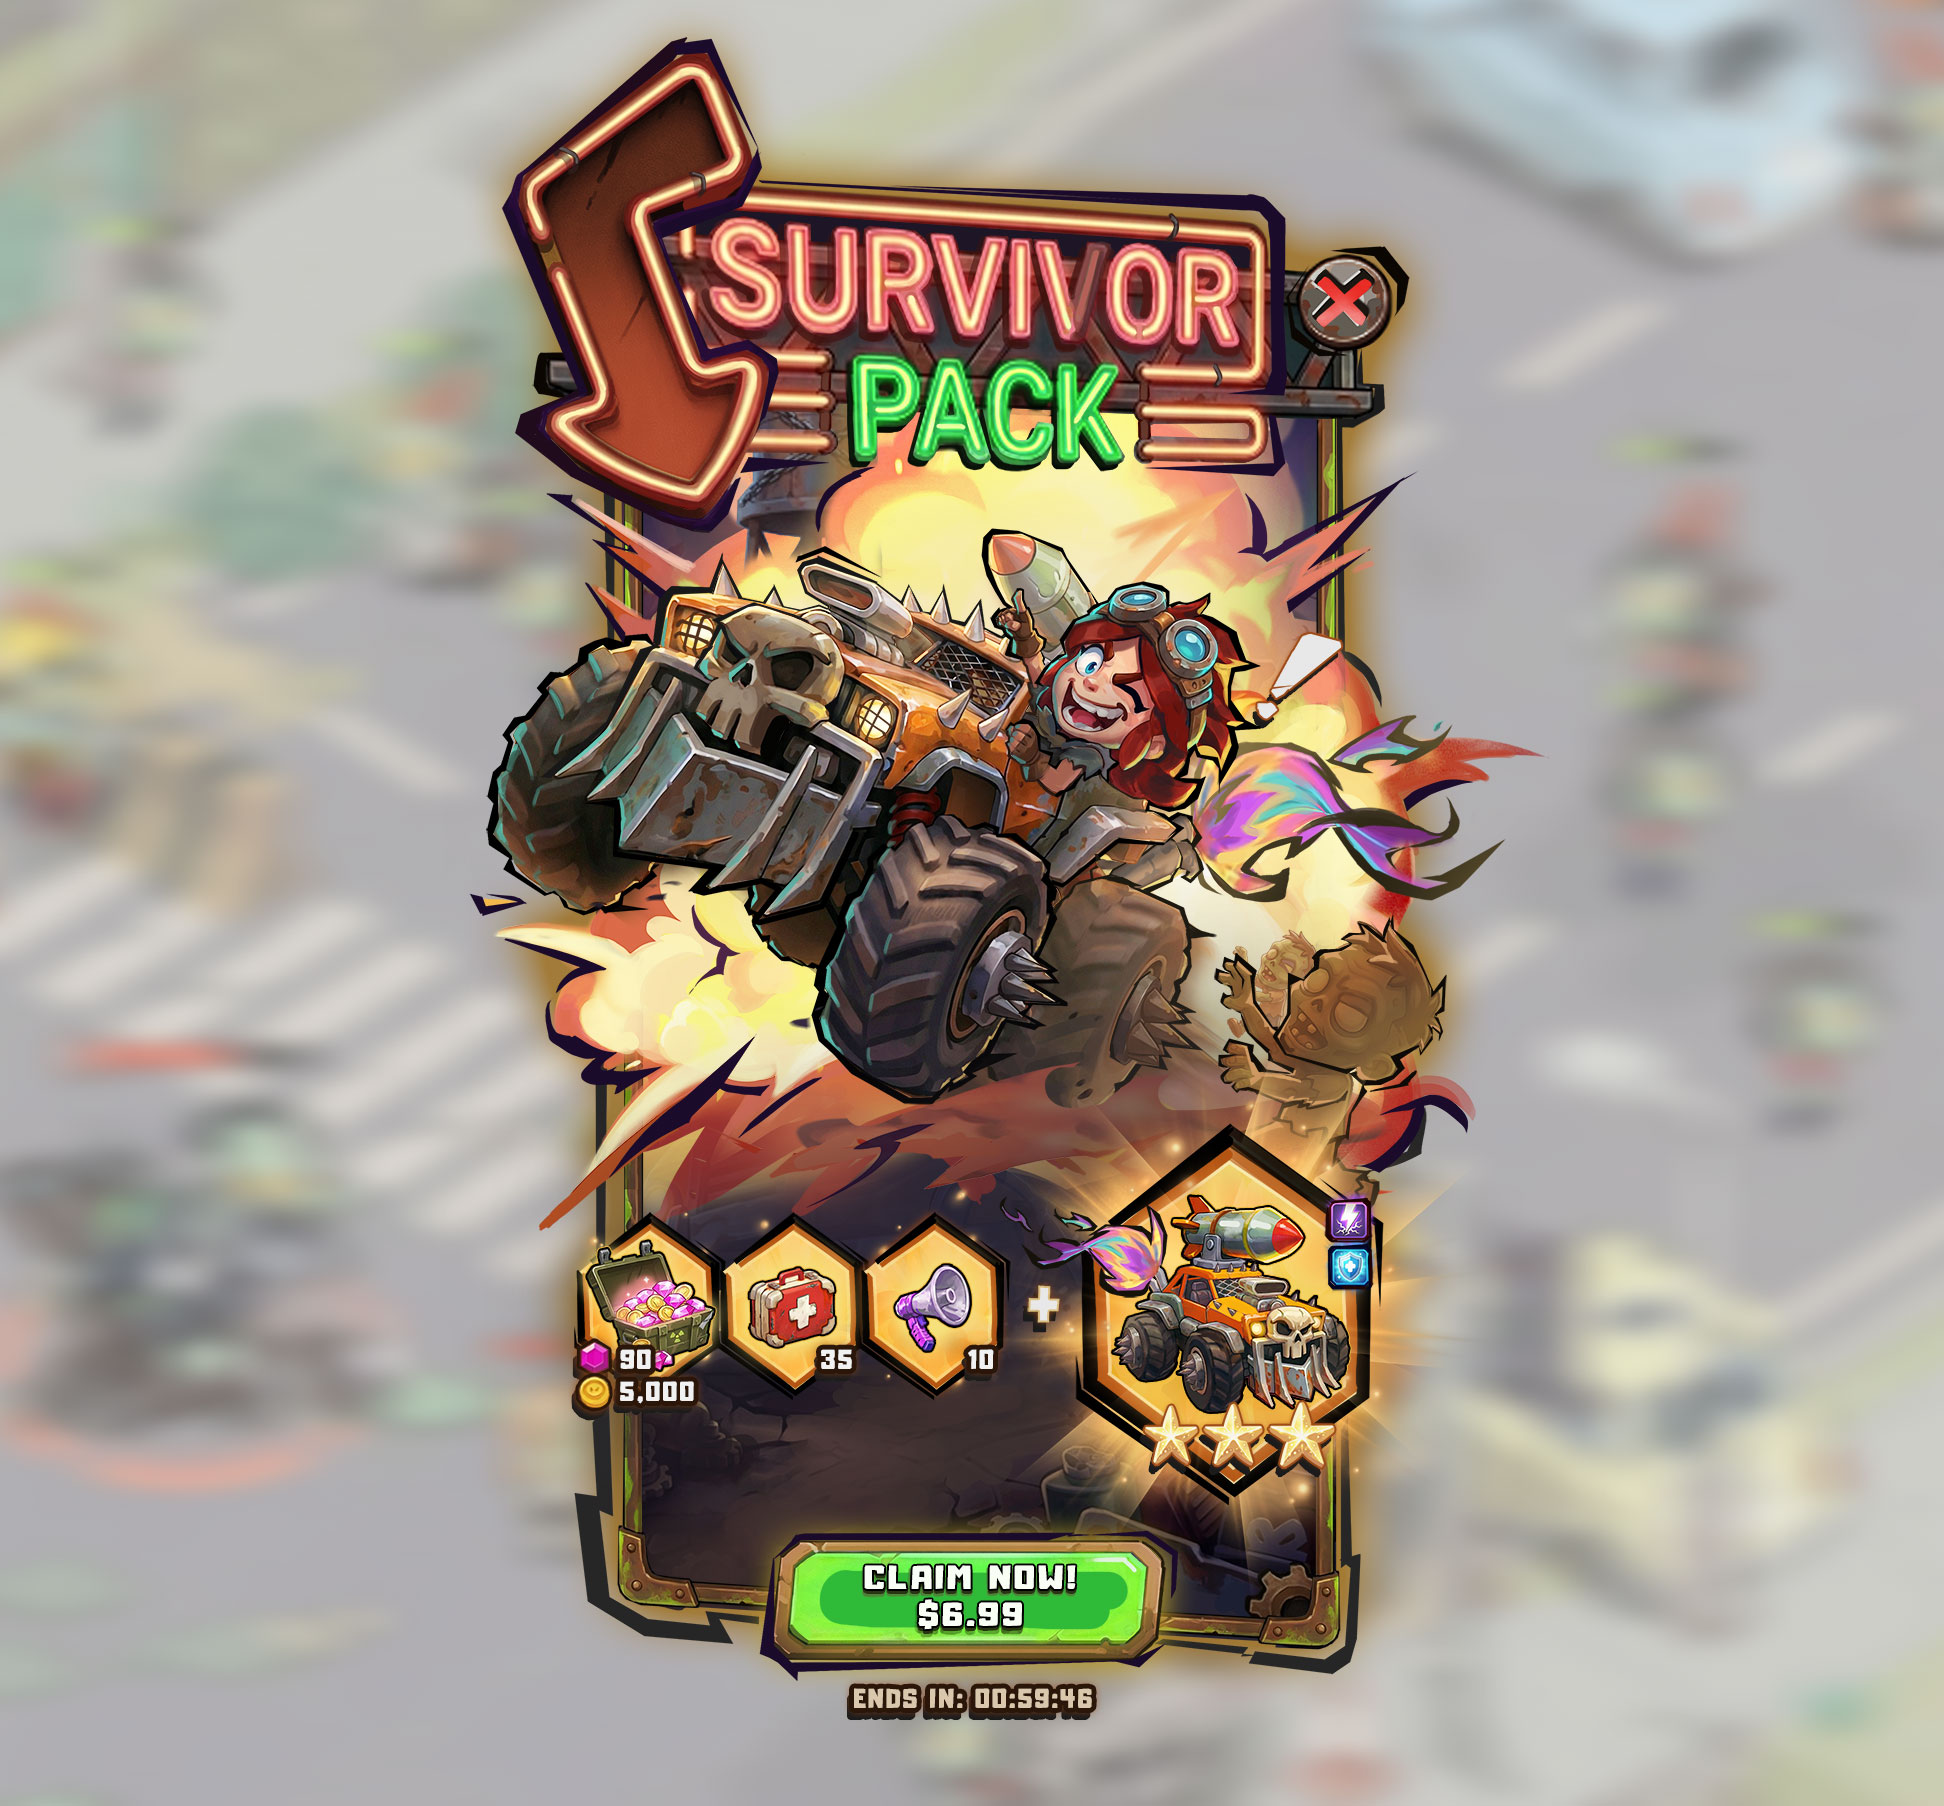
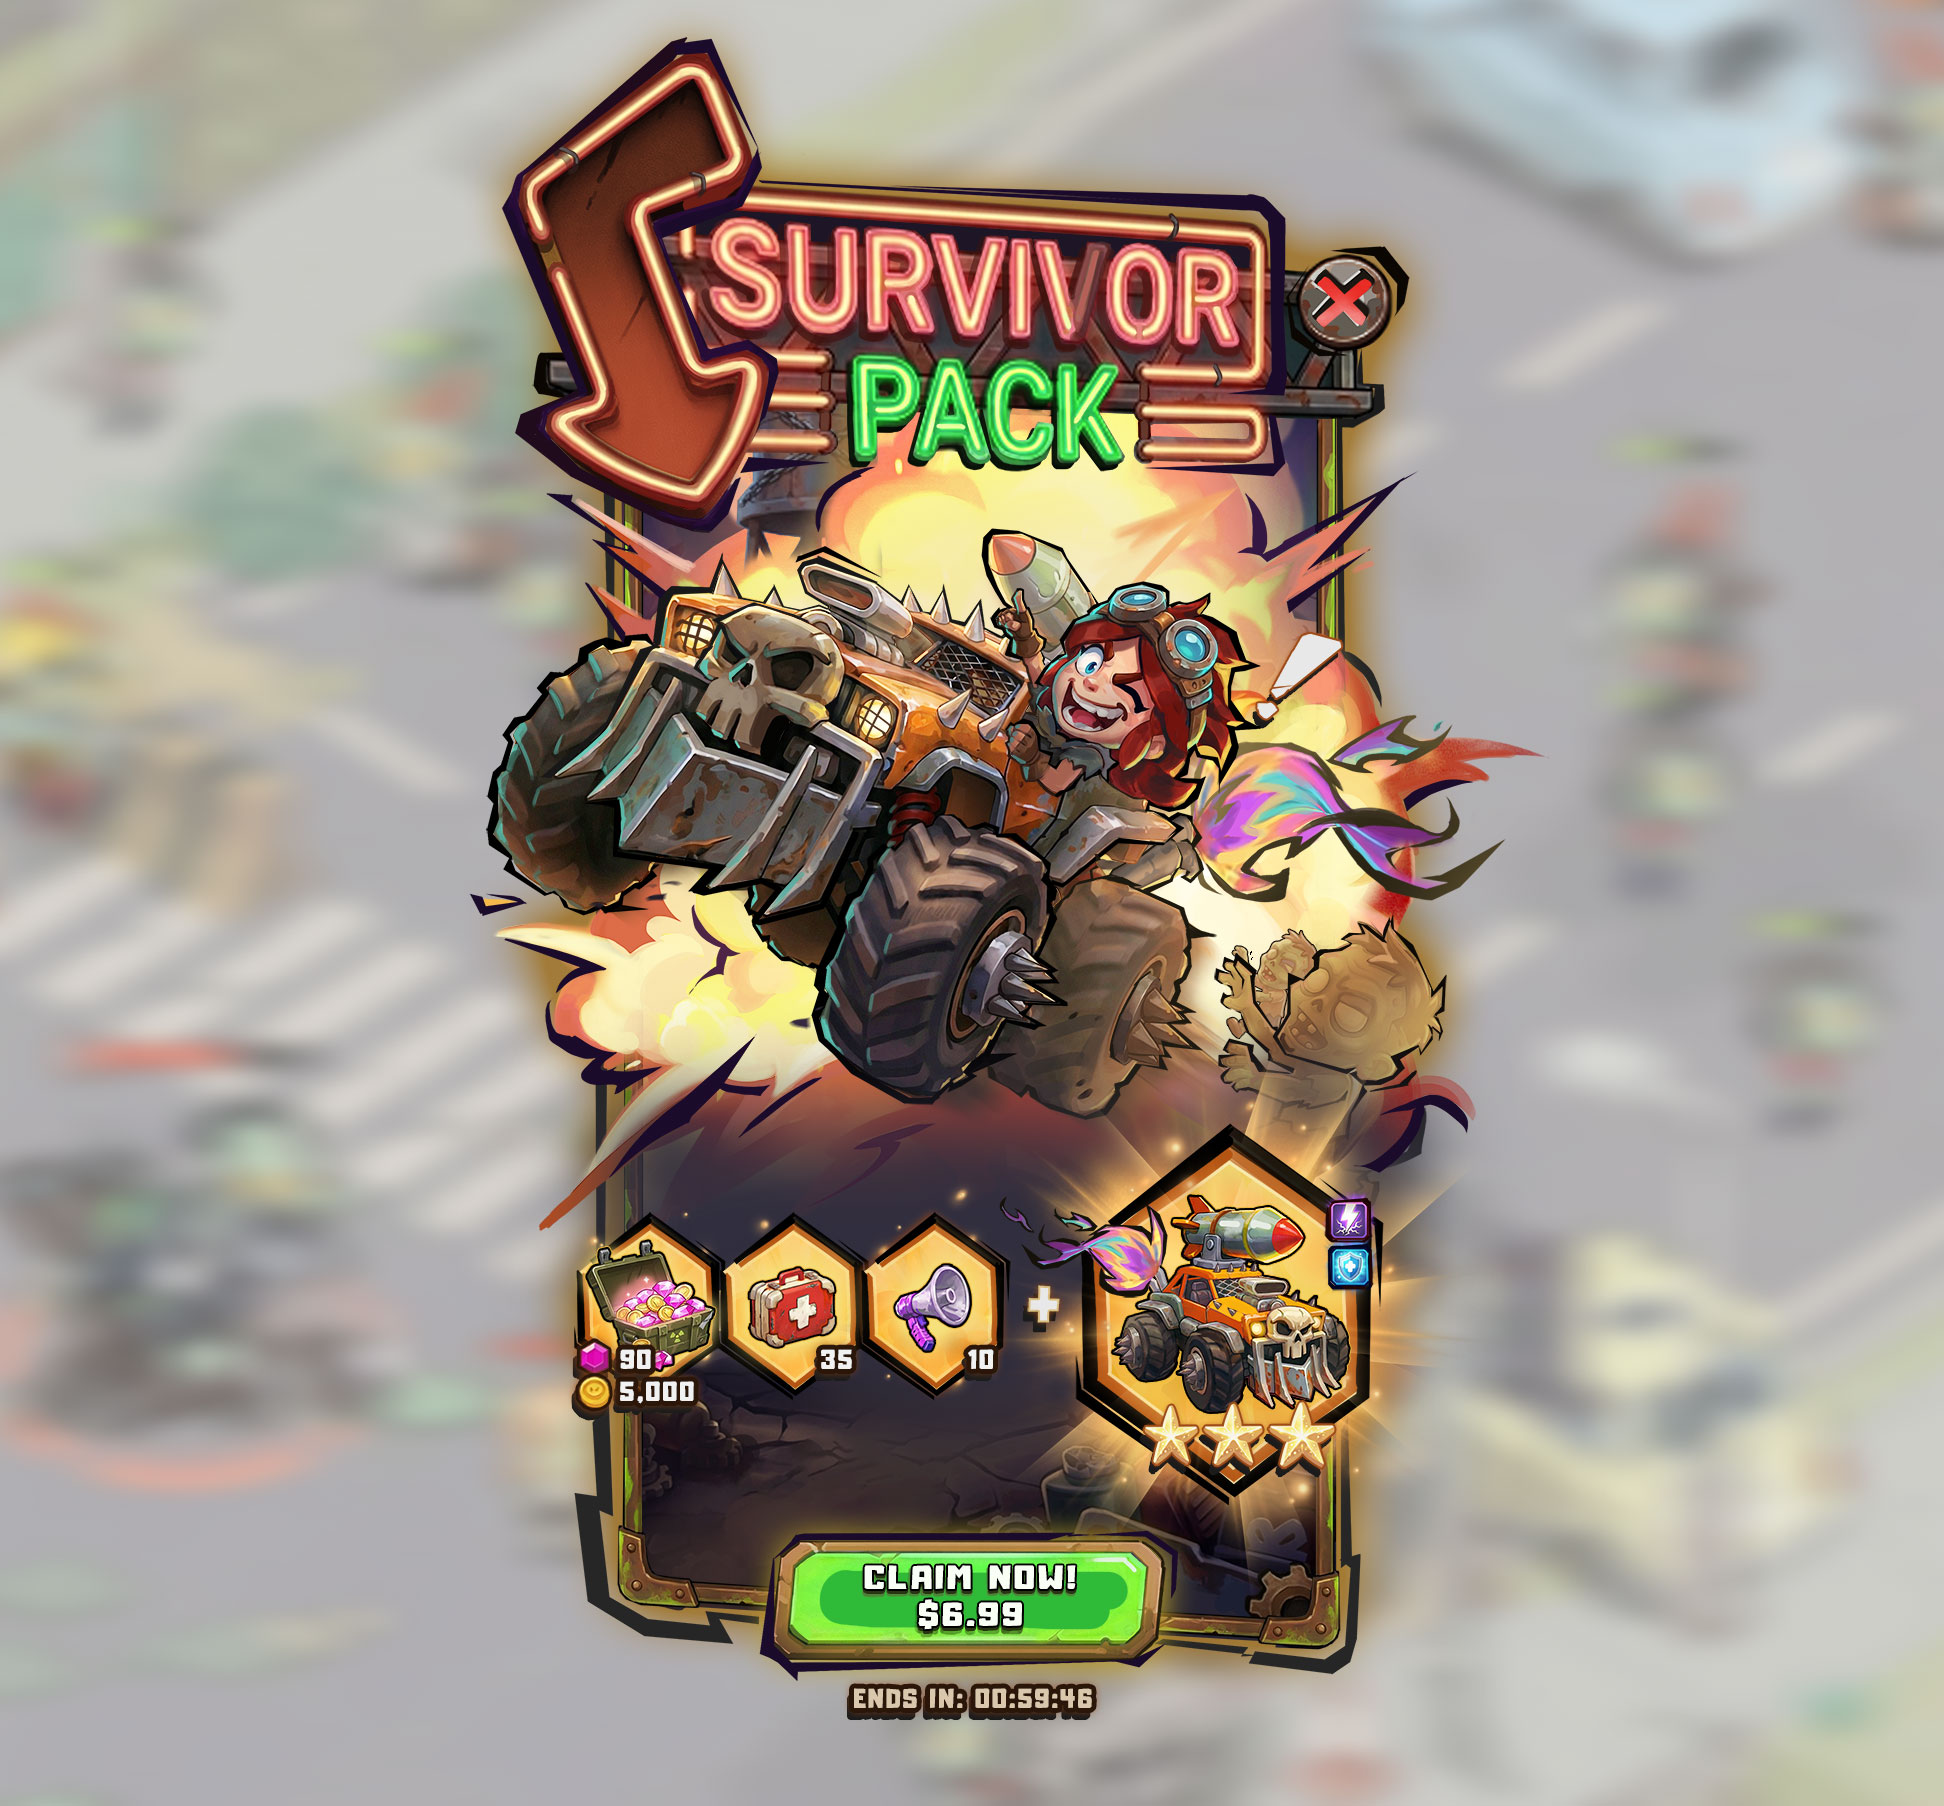
Update portfolio artwork and project order

Changed region(s): [[0.2778, 0.4961, 0.7716, 0.7442], [0.2778, 0.7752, 0.3395, 0.8062]]

diff --git a/site-data.js b/site-data.js
@@ -119,6 +119,7 @@ window.PORTFOLIO_PUBLISHED_DATA = {
       "images": [
         "assets/projects/survivor-pack/survivor-pack-01.jpg",
         "assets/projects/survivor-pack/survivor-pack-02.jpg",
+        "assets/projects/survivor-pack/survivor-pack-03-dark.jpg",
         "assets/projects/survivor-pack/survivor-pack-03.jpg",
         "assets/projects/survivor-pack/survivor-pack-04.jpg"
       ]

diff --git a/index.html b/index.html
@@ -282,7 +282,7 @@
     </article>
   </template>
 
-  <script src="site-data.js?v=gauntlet-revisions-20260830"></script>
+  <script src="site-data.js?v=survivor-pack-update-20260830"></script>
   <script src="script.js?v=masonry-portfolio-order-20260828e"></script>
 </body>
 </html>
